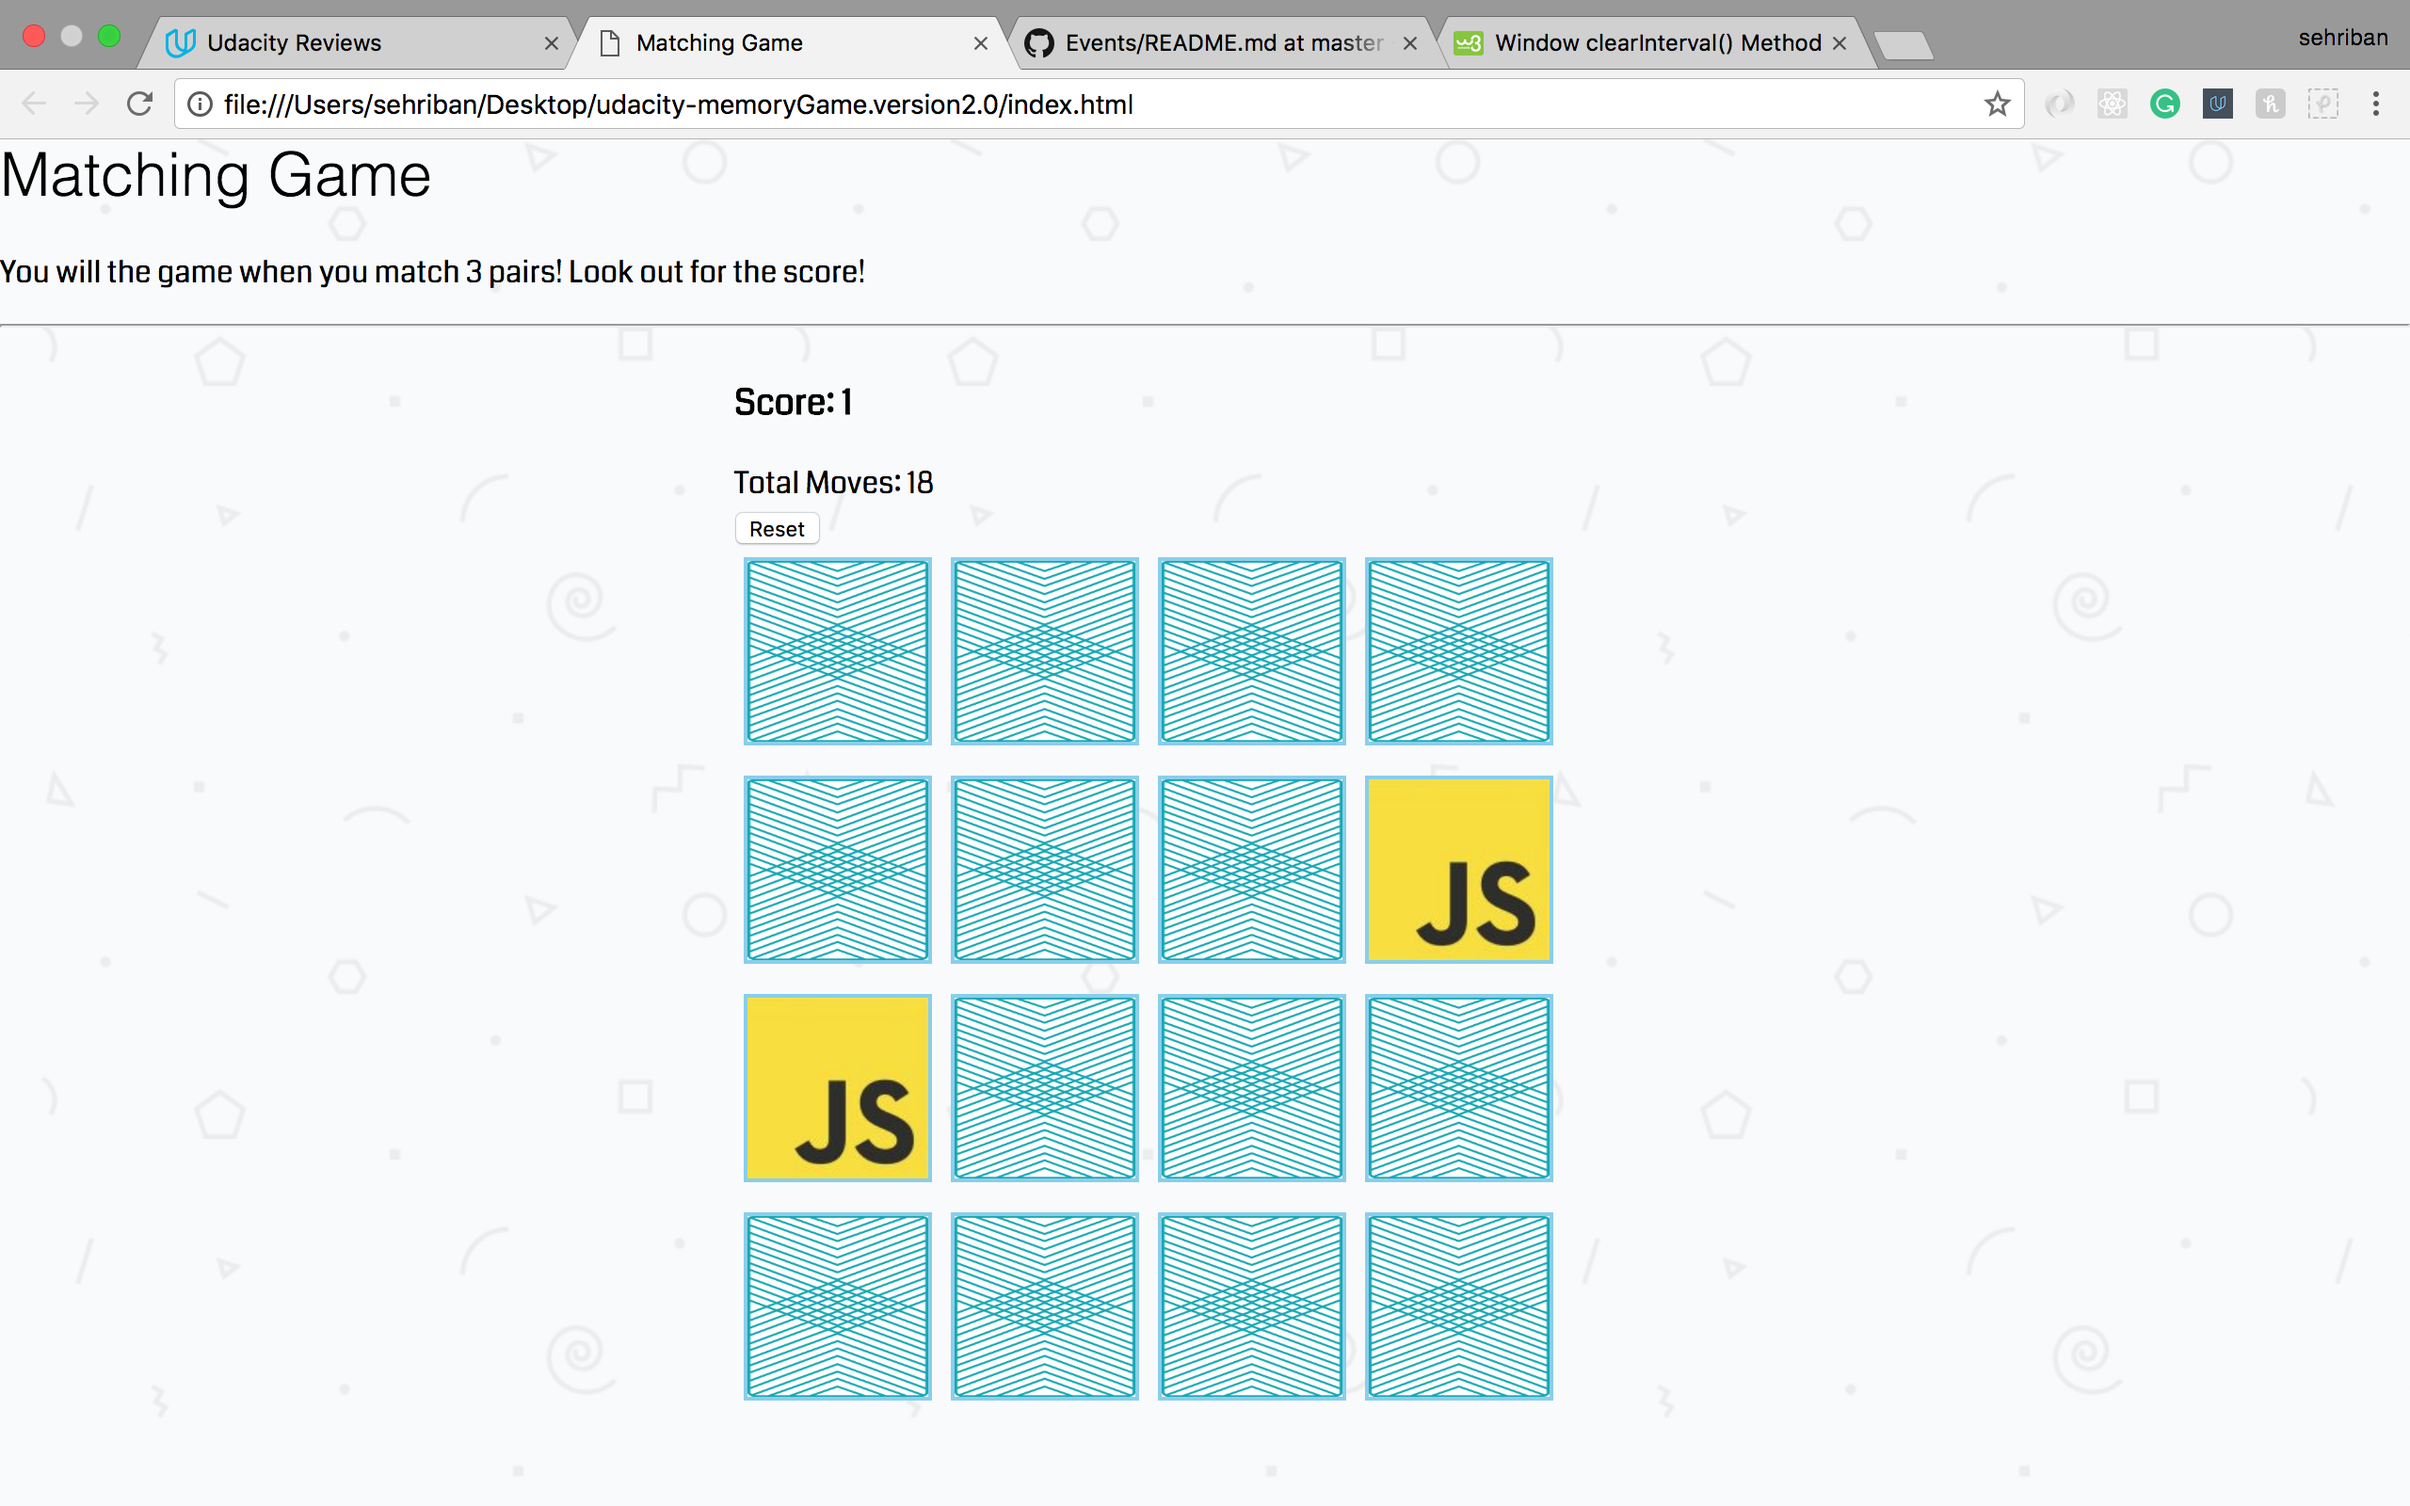
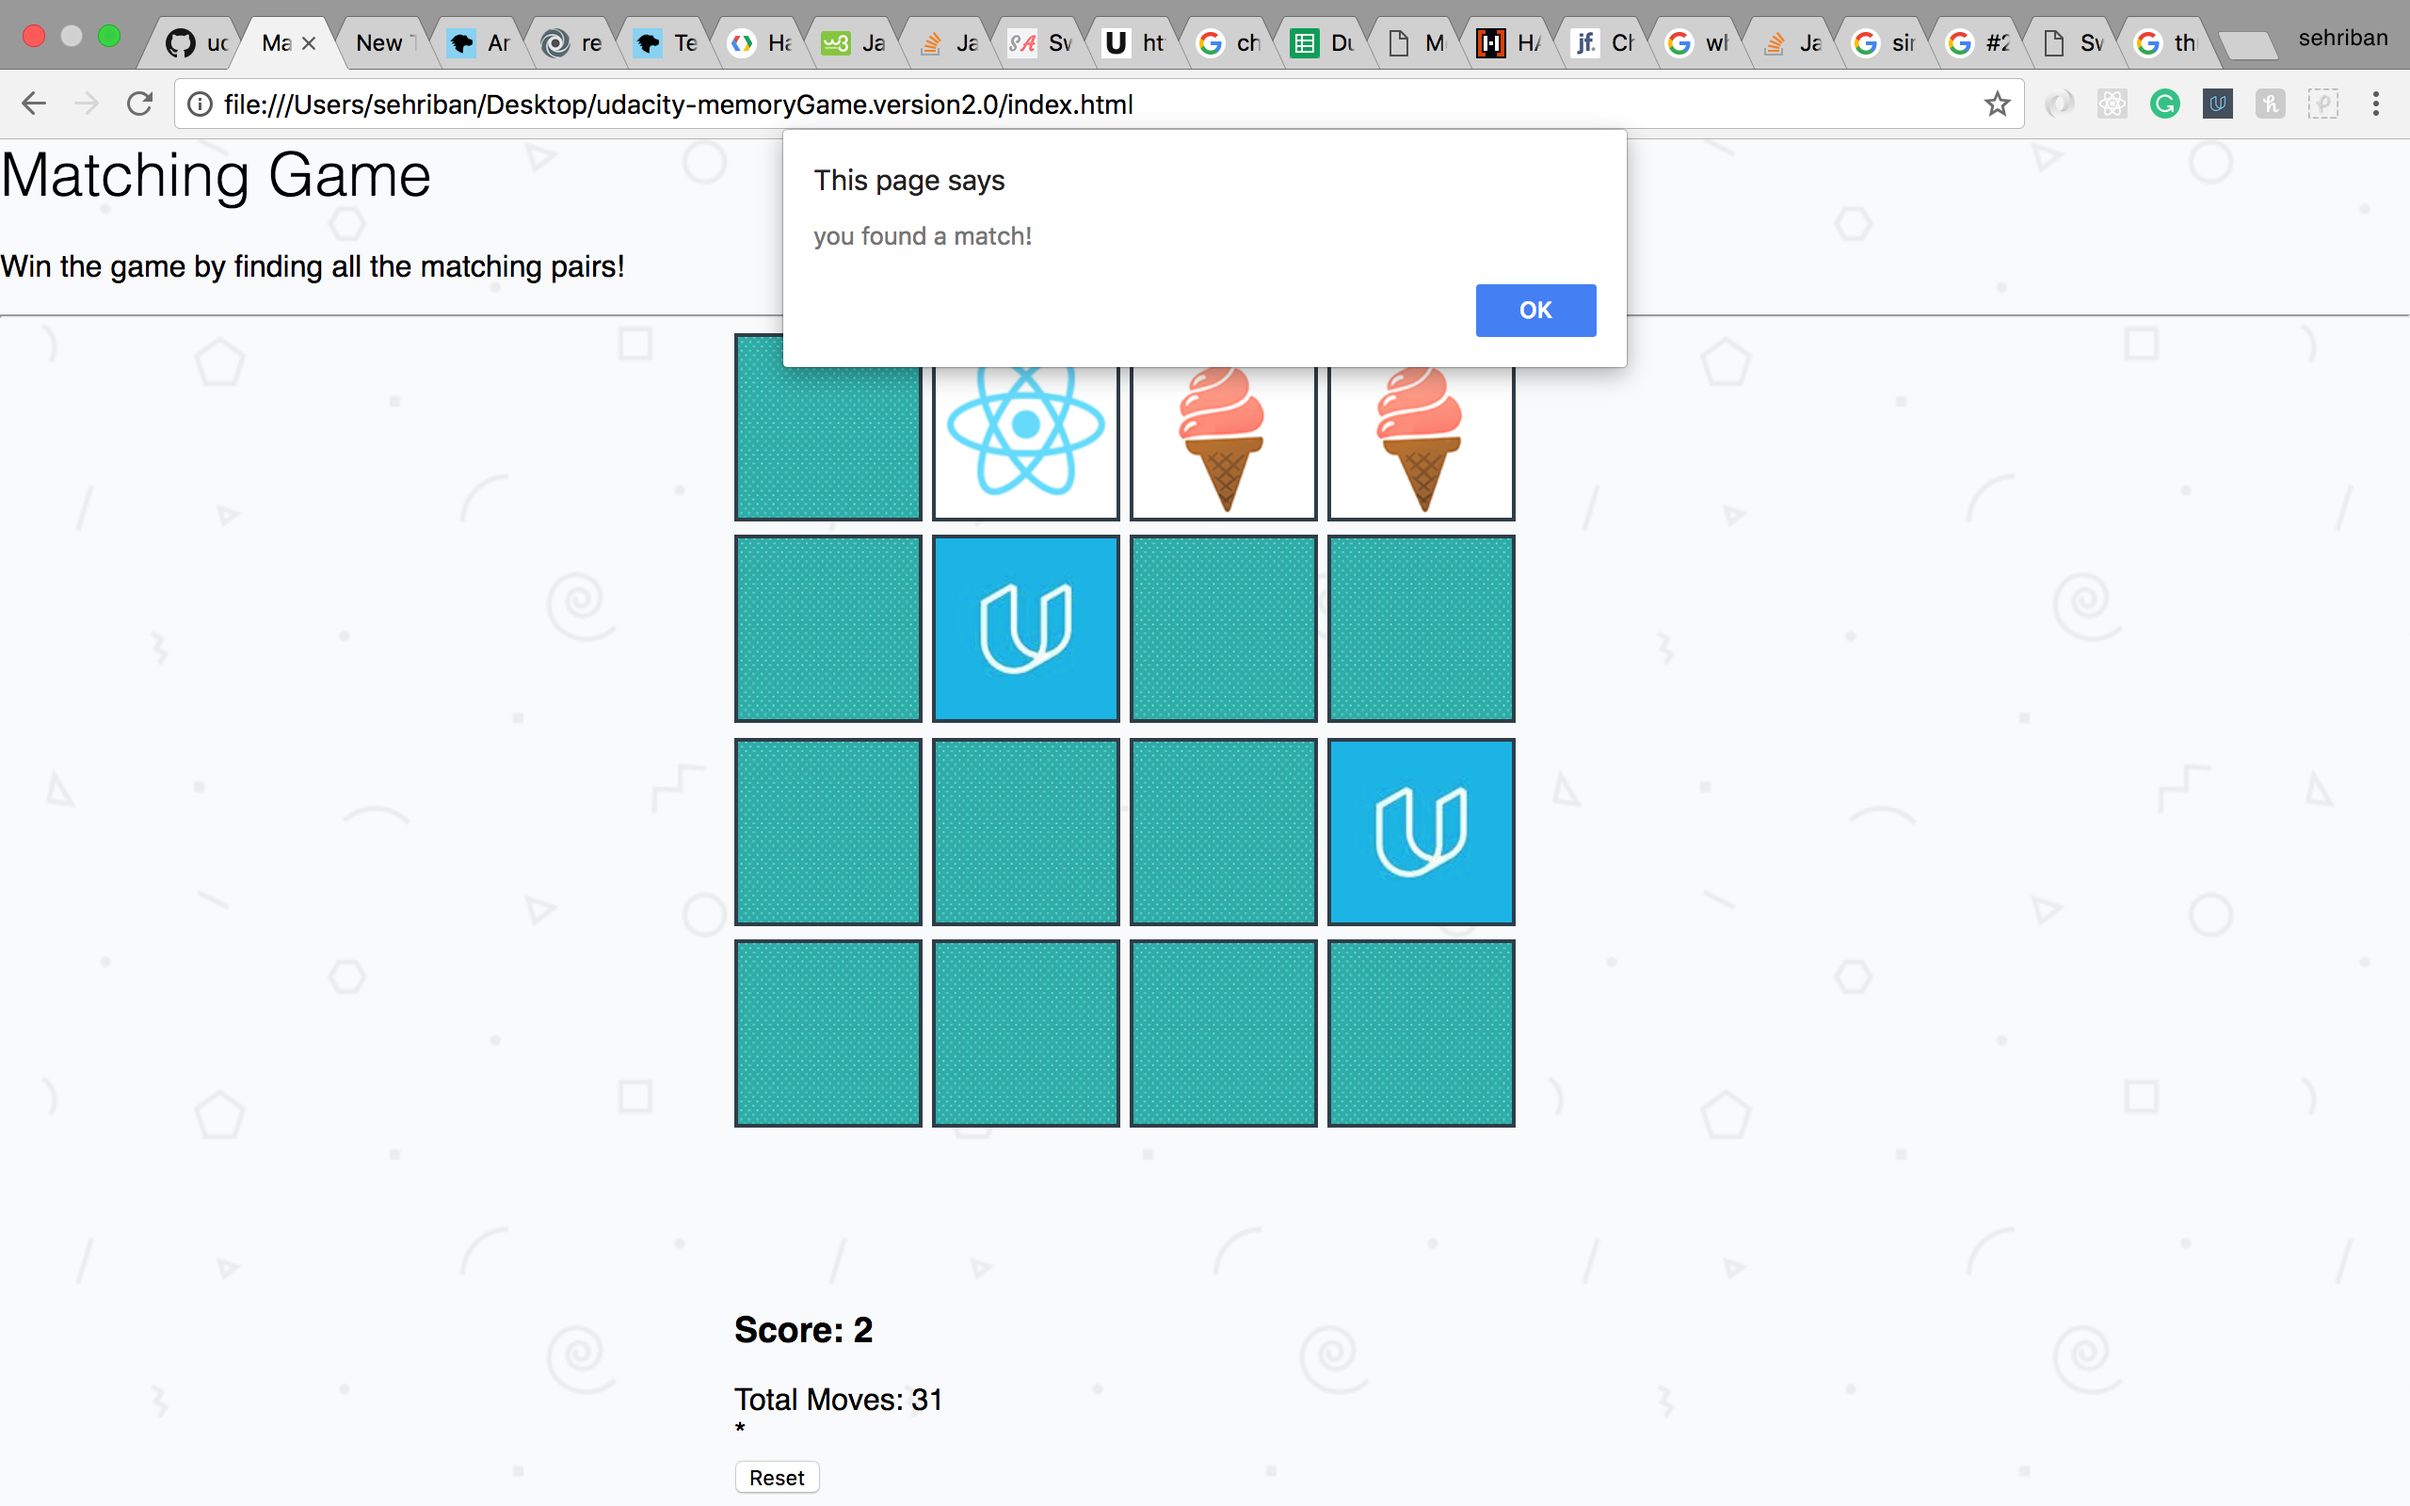
updated README.md/ added model/updated css/ minor edits on HTML file

diff --git a/js/app.js b/js/app.js
@@ -154,13 +154,13 @@ const mouseClicked = function() {
   if(number === 5) {
     stars.pop();
     const newStars = starString(stars);
-    document.getElementById("stars").innerHTML = newStars;
+    document.getElementById("stars").innerHTML =  "Stars: " + newStars;
   }
 
   if(number === 10) {
     stars.pop();
     const newStars = starString(stars);
-    document.getElementById("stars").innerHTML = newStars;
+    document.getElementById("stars").innerHTML = "Star: " + newStars;
   }
 }
 
@@ -209,13 +209,30 @@ mouseClicked();
     setTimeout(function() {
       alert(`You won the game with total of ${number} moves, in ${timeInSeconds} seconds!`);
       if(stars.length === 3) {
-        alert(`You did great! Your performance was ${stars.length} stars!`);
+
+        swal({
+        title: "Awesome!",
+        text: `You did great! Your performance was ${stars.length} stars!.Please click ok to reset the game.`,
+        imageUrl: 'img/thumb-up.png'
+      });
+
       }
       if(stars.length === 2) {
-        alert(`You did good! Your performance was ${stars.length} stars!`);
+        swal({
+        title: "Sweet!",
+        text: `You did good! Your performance was ${stars.length} stars!.Please click ok to reset the game.`,
+        imageUrl: 'img/thumb-up.png'
+      });
+
+
       }
       if(stars.length === 1) {
-        alert(`You did OK. Your performance was ${stars.length} star, try to solve the memory game faster next time.`);
+        swal({
+        title: "Sweet!",
+        text: `You did OK. Your performance was ${stars.length} star, try to solve the memory game faster next time.Please click ok to reset the game.`,
+        imageUrl: 'img/thumb-up.png'
+      });
+
       }
       cardsInPlay = [];
       gameScore = 0;
@@ -244,8 +261,8 @@ const checkForMatch = function(){
         }else{
           //if they dont match remove both cards from array and hide the symbols
           setTimeout(function() {
-            document.getElementById(cardsInPlay[0].id).setAttribute("src", "img/back.png");
-            document.getElementById(cardsInPlay[1].id).setAttribute("src", "img/back.png");
+            document.getElementById(cardsInPlay[0].id).setAttribute("src", "img/blueish.jpg");
+            document.getElementById(cardsInPlay[1].id).setAttribute("src", "img/blueish.jpg");
             cardsInPlay[0].clicked = false;
             cardsInPlay[1].clicked = false;
             // alert("thats not match!");
@@ -263,7 +280,7 @@ const checkForMatch = function(){
    //loop through each card, create its HTML and add each card's HTML to the page
 	for(let i=0; i < cards.length; i++){
 		const cardElement= document.createElement("img");
-		cardElement.setAttribute("src", "img/back.png");
+		cardElement.setAttribute("src", "img/blueish.jpg");
 		cardElement.setAttribute("data-id", i);
 		cardElement.addEventListener("click", flipCard);
 		document.getElementById("game-board").appendChild(cardElement);
@@ -303,7 +320,7 @@ const resetGame = function(){
   number = 0;
   stars = ['*', '*', '*'];
   newStars = starString(stars);
-  document.getElementById("stars").innerHTML = newStars;
+  document.getElementById("stars").innerHTML = "Stars:" + newStars;
   document.getElementById("trackScore").innerHTML = gameScore;
   document.getElementById("moves").innerHTML = "Total moves: " + number;
 };

diff --git a/index.html b/index.html
@@ -4,8 +4,9 @@
     <meta charset="utf-8">
     <meta name="viewport" content="width=device-width, initial-scale=1">
     <title>Matching Game</title>
-    <link rel="stylesheet prefetch" href="https://fonts.googleapis.com/css?family=Coda">
-    <link rel="stylesheet" href="css/app.css">
+    <link  rel ="stylesheet" href="css/app.css">
+    <link rel="stylesheet" href="https://cdnjs.cloudflare.com/ajax/libs/sweetalert/1.1.3/sweetalert.min.css">
+  <script src="https://cdnjs.cloudflare.com/ajax/libs/sweetalert/1.1.3/sweetalert.min.js"></script>
 </head>
 <body>
   <header>
@@ -19,7 +20,7 @@
         <div id="game-board" class="board clearfix" ></div>
         <h3>Score: <span id="trackScore">0</span></h3>
         <div id="moves">Total moves: 0</div>
-        <div>Stars: <span id="stars">***</span></div>
+        <div id="stars">Stars: <span id="stars">***</span></div>
         <button  id="startOver" onclick="resetGame()">Reset</button>
 
     </main>

diff --git a/css/app.css b/css/app.css
@@ -37,7 +37,7 @@ h1 {
  * Styles for the deck of cards
  */
 
-.deck {
+/* .deck {
     width: 800px;
     min-height: 680px;
     background: linear-gradient(160deg, #02ccba 0%, #aa7ecd 100%);
@@ -49,9 +49,9 @@ h1 {
     justify-content: space-between;
     align-items: center;
     margin: 0 0 3em;
-}
+} */
 
- .deck .card {
+ /* .deck .card {
     height: 125px;
     width: 125px;
     background: #2e3d49;
@@ -63,7 +63,7 @@ h1 {
     justify-content: center;
     align-items: center;
     box-shadow: 5px 2px 20px 0 rgba(46, 61, 73, 0.5);
-}
+} */
 
  .deck .card.open {
     transform: rotateY(0);
@@ -119,12 +119,16 @@ h1 {
   font-size: 0;
 }
 img{
-	margin:5px;;
+	margin-right:5px;
 	width:100px;
 	height:100px;
-	border:2px solid skyblue;
+	border:2px solid #2e3d49;
+  margin-bottom:.5px;
 }
 #game-board{
   width: 500px;
   height: 500px;
+}
+p, h3, #moves, #stars{
+  font-family: sans-serif;
 }

diff --git a/README.md b/README.md
@@ -6,9 +6,8 @@ Udacity- Memory Game
 
 **Memory Game** is a card game in which all of the cards are laid face down on a surface and two cards are flipped face up over each turn. The object of the game is to turn over pairs of matching cards.
 
-
-
 ----------
+
 
 
 ![Alt text](img/screenShot1.png)
@@ -20,6 +19,11 @@ Udacity- Memory Game
 
 
 ![Alt text](img/screenShot3.png)
+
+----------
+
+![Alt text](img/screenShot4.png)
+
 
 ----------
 
